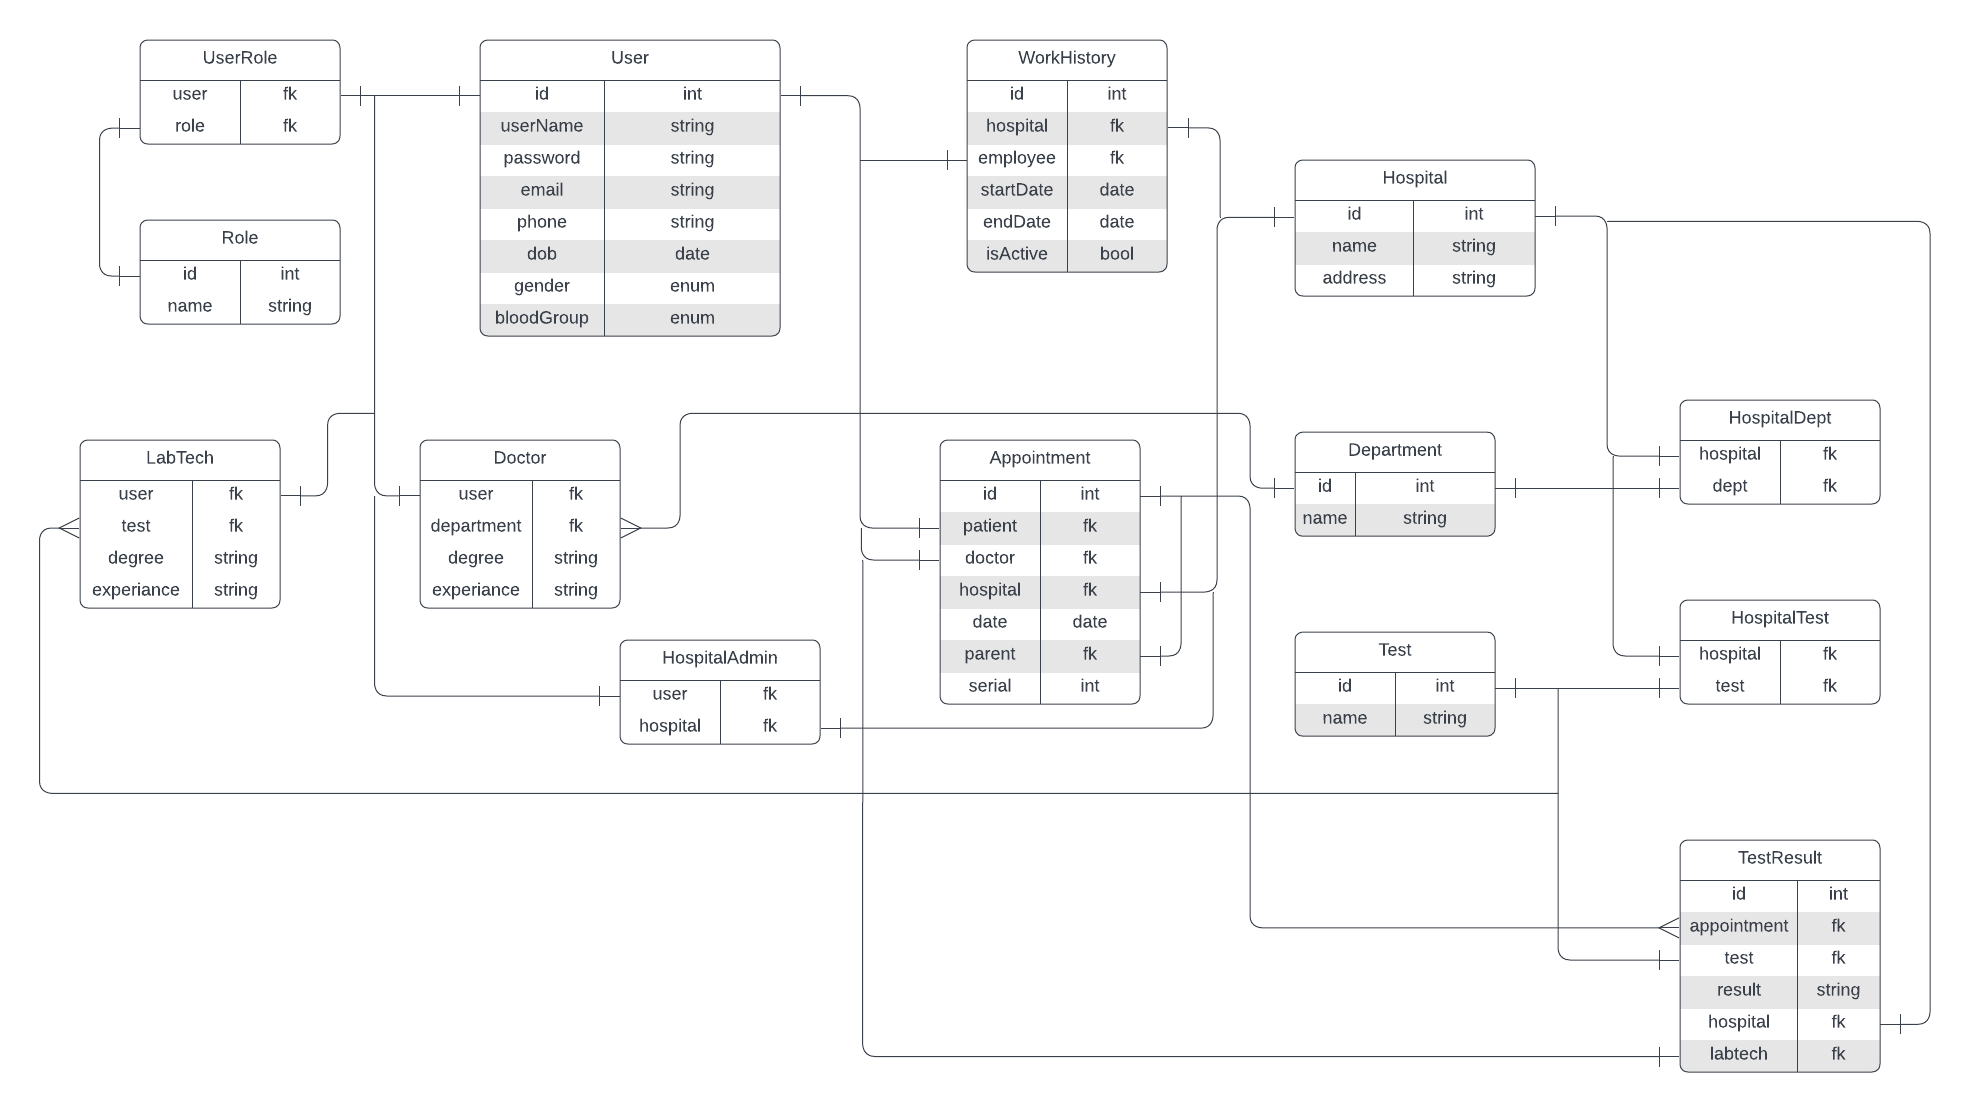
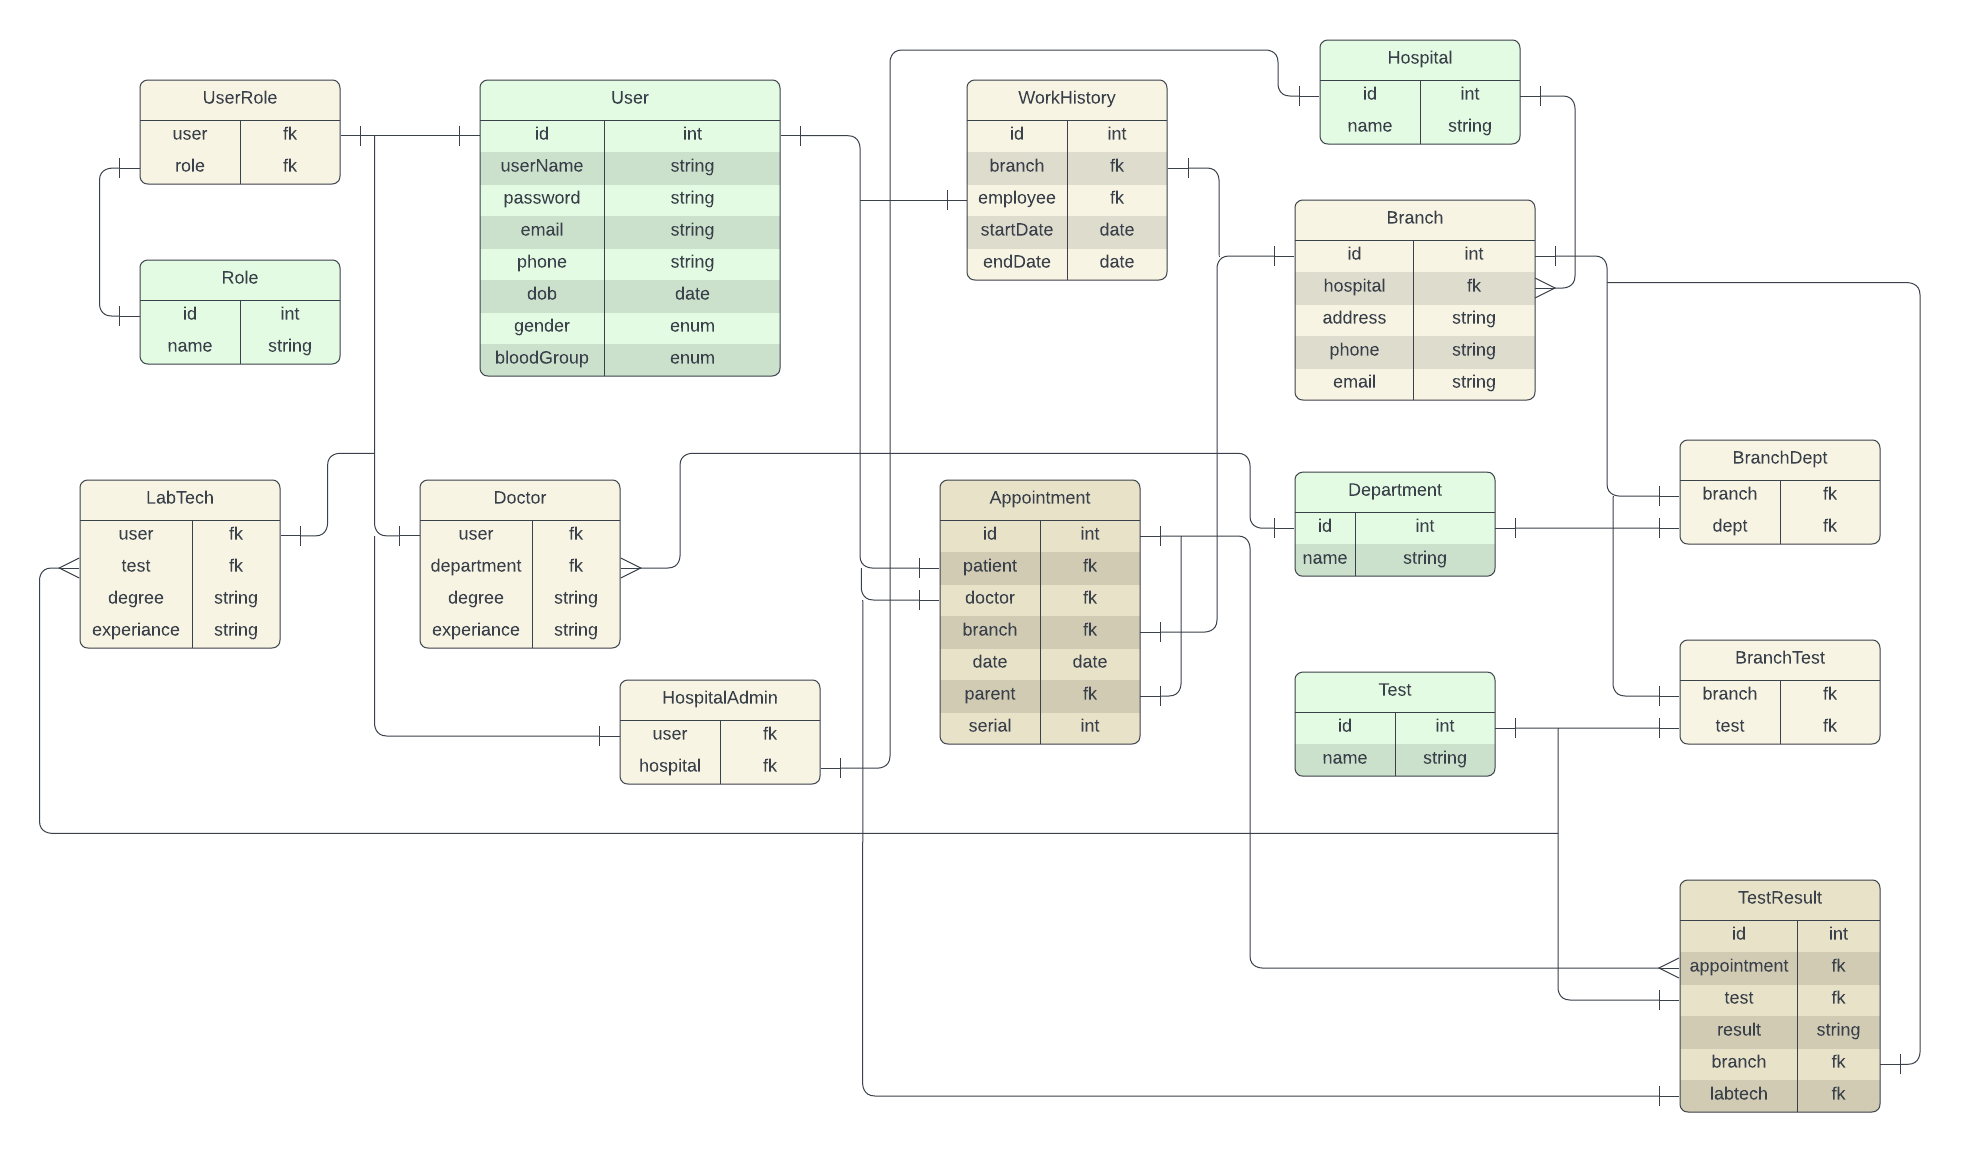
fix hospital schema

diff --git a/backend/alembic/versions/2024_07_13_0617-c747eb2d346f_create_dept_role_test_hospital_tables.py b/backend/alembic/versions/2024_07_13_0617-c747eb2d346f_create_dept_role_test_hospital_tables.py
@@ -1,8 +1,8 @@
-"""create tables
+"""create dept role test hospital tables
 
-Revision ID: b30f4365890a
+Revision ID: c747eb2d346f
 Revises: 
-Create Date: 2024-07-13 05:11:19.222305
+Create Date: 2024-07-13 06:17:32.982512
 
 """
 from typing import Sequence, Union
@@ -12,7 +12,7 @@ import sqlalchemy as sa
 
 
 # revision identifiers, used by Alembic.
-revision: str = 'b30f4365890a'
+revision: str = 'c747eb2d346f'
 down_revision: Union[str, None] = None
 branch_labels: Union[str, Sequence[str], None] = None
 depends_on: Union[str, Sequence[str], None] = None
@@ -25,6 +25,11 @@ def upgrade() -> None:
     sa.Column('name', sa.String(length=50), nullable=False),
     sa.PrimaryKeyConstraint('id'),
     sa.UniqueConstraint('name')
+    )
+    op.create_table('hospitals',
+    sa.Column('id', sa.Integer(), nullable=False),
+    sa.Column('name', sa.String(length=100), nullable=False),
+    sa.PrimaryKeyConstraint('id')
     )
     op.create_table('roles',
     sa.Column('id', sa.Integer(), nullable=False),
@@ -45,5 +50,6 @@ def downgrade() -> None:
     # ### commands auto generated by Alembic - please adjust! ###
     op.drop_table('tests')
     op.drop_table('roles')
+    op.drop_table('hospitals')
     op.drop_table('departments')
     # ### end Alembic commands ###

diff --git a/backend/app/controllers/department.py b/backend/app/controllers/department.py
@@ -7,12 +7,14 @@ router = APIRouter()
 
 
 class DepartmentSchema:
-    class DepartmentCreateInput(BaseModel):
+    class BaseSchema(BaseModel):
         name: str
 
-    class Output(BaseModel):
+    class CreateInput(BaseSchema):
+        pass
+
+    class Output(BaseSchema):
         id: int
-        name: str
 
 
 @router.get(
@@ -29,5 +31,5 @@ async def get_departments():
     response_model=DepartmentSchema.Output,
     status_code=status.HTTP_201_CREATED,
 )
-async def create_department(dept: DepartmentSchema.DepartmentCreateInput):
+async def create_department(dept: DepartmentSchema.CreateInput):
     return await DepartmentService.create_department(dept.name)

diff --git a/backend/app/controllers/hospital.py b/backend/app/controllers/hospital.py
@@ -9,16 +9,12 @@ router = APIRouter()
 class HospitalSchema:
     class BaseSchema(BaseModel):
         name: str
-        address: str
-        phone: str | None = None
-        email: str | None = None
 
     class CreateInput(BaseSchema):
         pass
 
     class Output(BaseSchema):
         id: int
-
 
 
 @router.get(
@@ -36,4 +32,4 @@ async def get_hospitals():
     status_code=status.HTTP_201_CREATED,
 )
 async def create_hospital(hospital: HospitalSchema.CreateInput):
-    return await HospitalService.create_hospital(hospital.name, hospital.address, hospital.phone, hospital.email)
+    return await HospitalService.create_hospital(hospital.name)

diff --git a/backend/app/controllers/role.py b/backend/app/controllers/role.py
@@ -7,12 +7,14 @@ router = APIRouter()
 
 
 class RoleSchema:
-    class RoleCreateInput(BaseModel):
+    class BaseSchema(BaseModel):
         name: str
 
-    class Output(BaseModel):
+    class CreateInput(BaseSchema):
+        pass
+
+    class Output(BaseSchema):
         id: int
-        name: str
 
 
 @router.get(
@@ -29,5 +31,5 @@ async def get_roles():
     response_model=RoleSchema.Output,
     status_code=status.HTTP_201_CREATED,
 )
-async def create_role(role: RoleSchema.RoleCreateInput):
+async def create_role(role: RoleSchema.CreateInput):
     return await RoleService.create_role(role.name)

diff --git a/backend/app/controllers/test.py b/backend/app/controllers/test.py
@@ -7,12 +7,14 @@ router = APIRouter()
 
 
 class TestSchema:
-    class TestCreateInput(BaseModel):
+    class BaseSchema(BaseModel):
         name: str
 
-    class Output(BaseModel):
+    class CreateInput(BaseSchema):
+        pass
+
+    class Output(BaseSchema):
         id: int
-        name: str
 
 
 @router.get(
@@ -29,5 +31,5 @@ async def get_tests():
     response_model=TestSchema.Output,
     status_code=status.HTTP_201_CREATED,
 )
-async def create_role(test: TestSchema.TestCreateInput):
+async def create_role(test: TestSchema.CreateInput):
     return await TestService.create_test(test.name)

diff --git a/backend/app/repositories/hospital.py b/backend/app/repositories/hospital.py
@@ -11,8 +11,8 @@ class HospitalRepo:
         return [hospital for hospital in hospitals.all()]
 
     @staticmethod
-    async def create_hospital(name: str, address: str, phone: str | None = None, email: str | None = None):
-        new_hospital = Hospital(name=name, address=address, phone=phone, email=email)
+    async def create_hospital(name: str):
+        new_hospital = Hospital(name=name)
         session().add(new_hospital)
         await session().commit()
         await session().refresh(new_hospital)

diff --git a/backend/app/services/hospital.py b/backend/app/services/hospital.py
@@ -7,5 +7,5 @@ class HospitalService:
         return await HospitalRepo.get_hospitals()
 
     @staticmethod
-    async def create_hospital(name: str, address: str, phone: str | None = None, email: str | None = None):
-        return await HospitalRepo.create_hospital(name, address, phone, email)
+    async def create_hospital(name: str):
+        return await HospitalRepo.create_hospital(name)

diff --git a/backend/app/models.py b/backend/app/models.py
@@ -29,7 +29,3 @@ class Hospital(Base):
 
     id = Column(Integer, primary_key=True)
     name = Column(String(100), nullable=False)
-    address = Column(String(500), nullable=False)
-    phone = Column(String(15))
-    email = Column(String(30))
-
